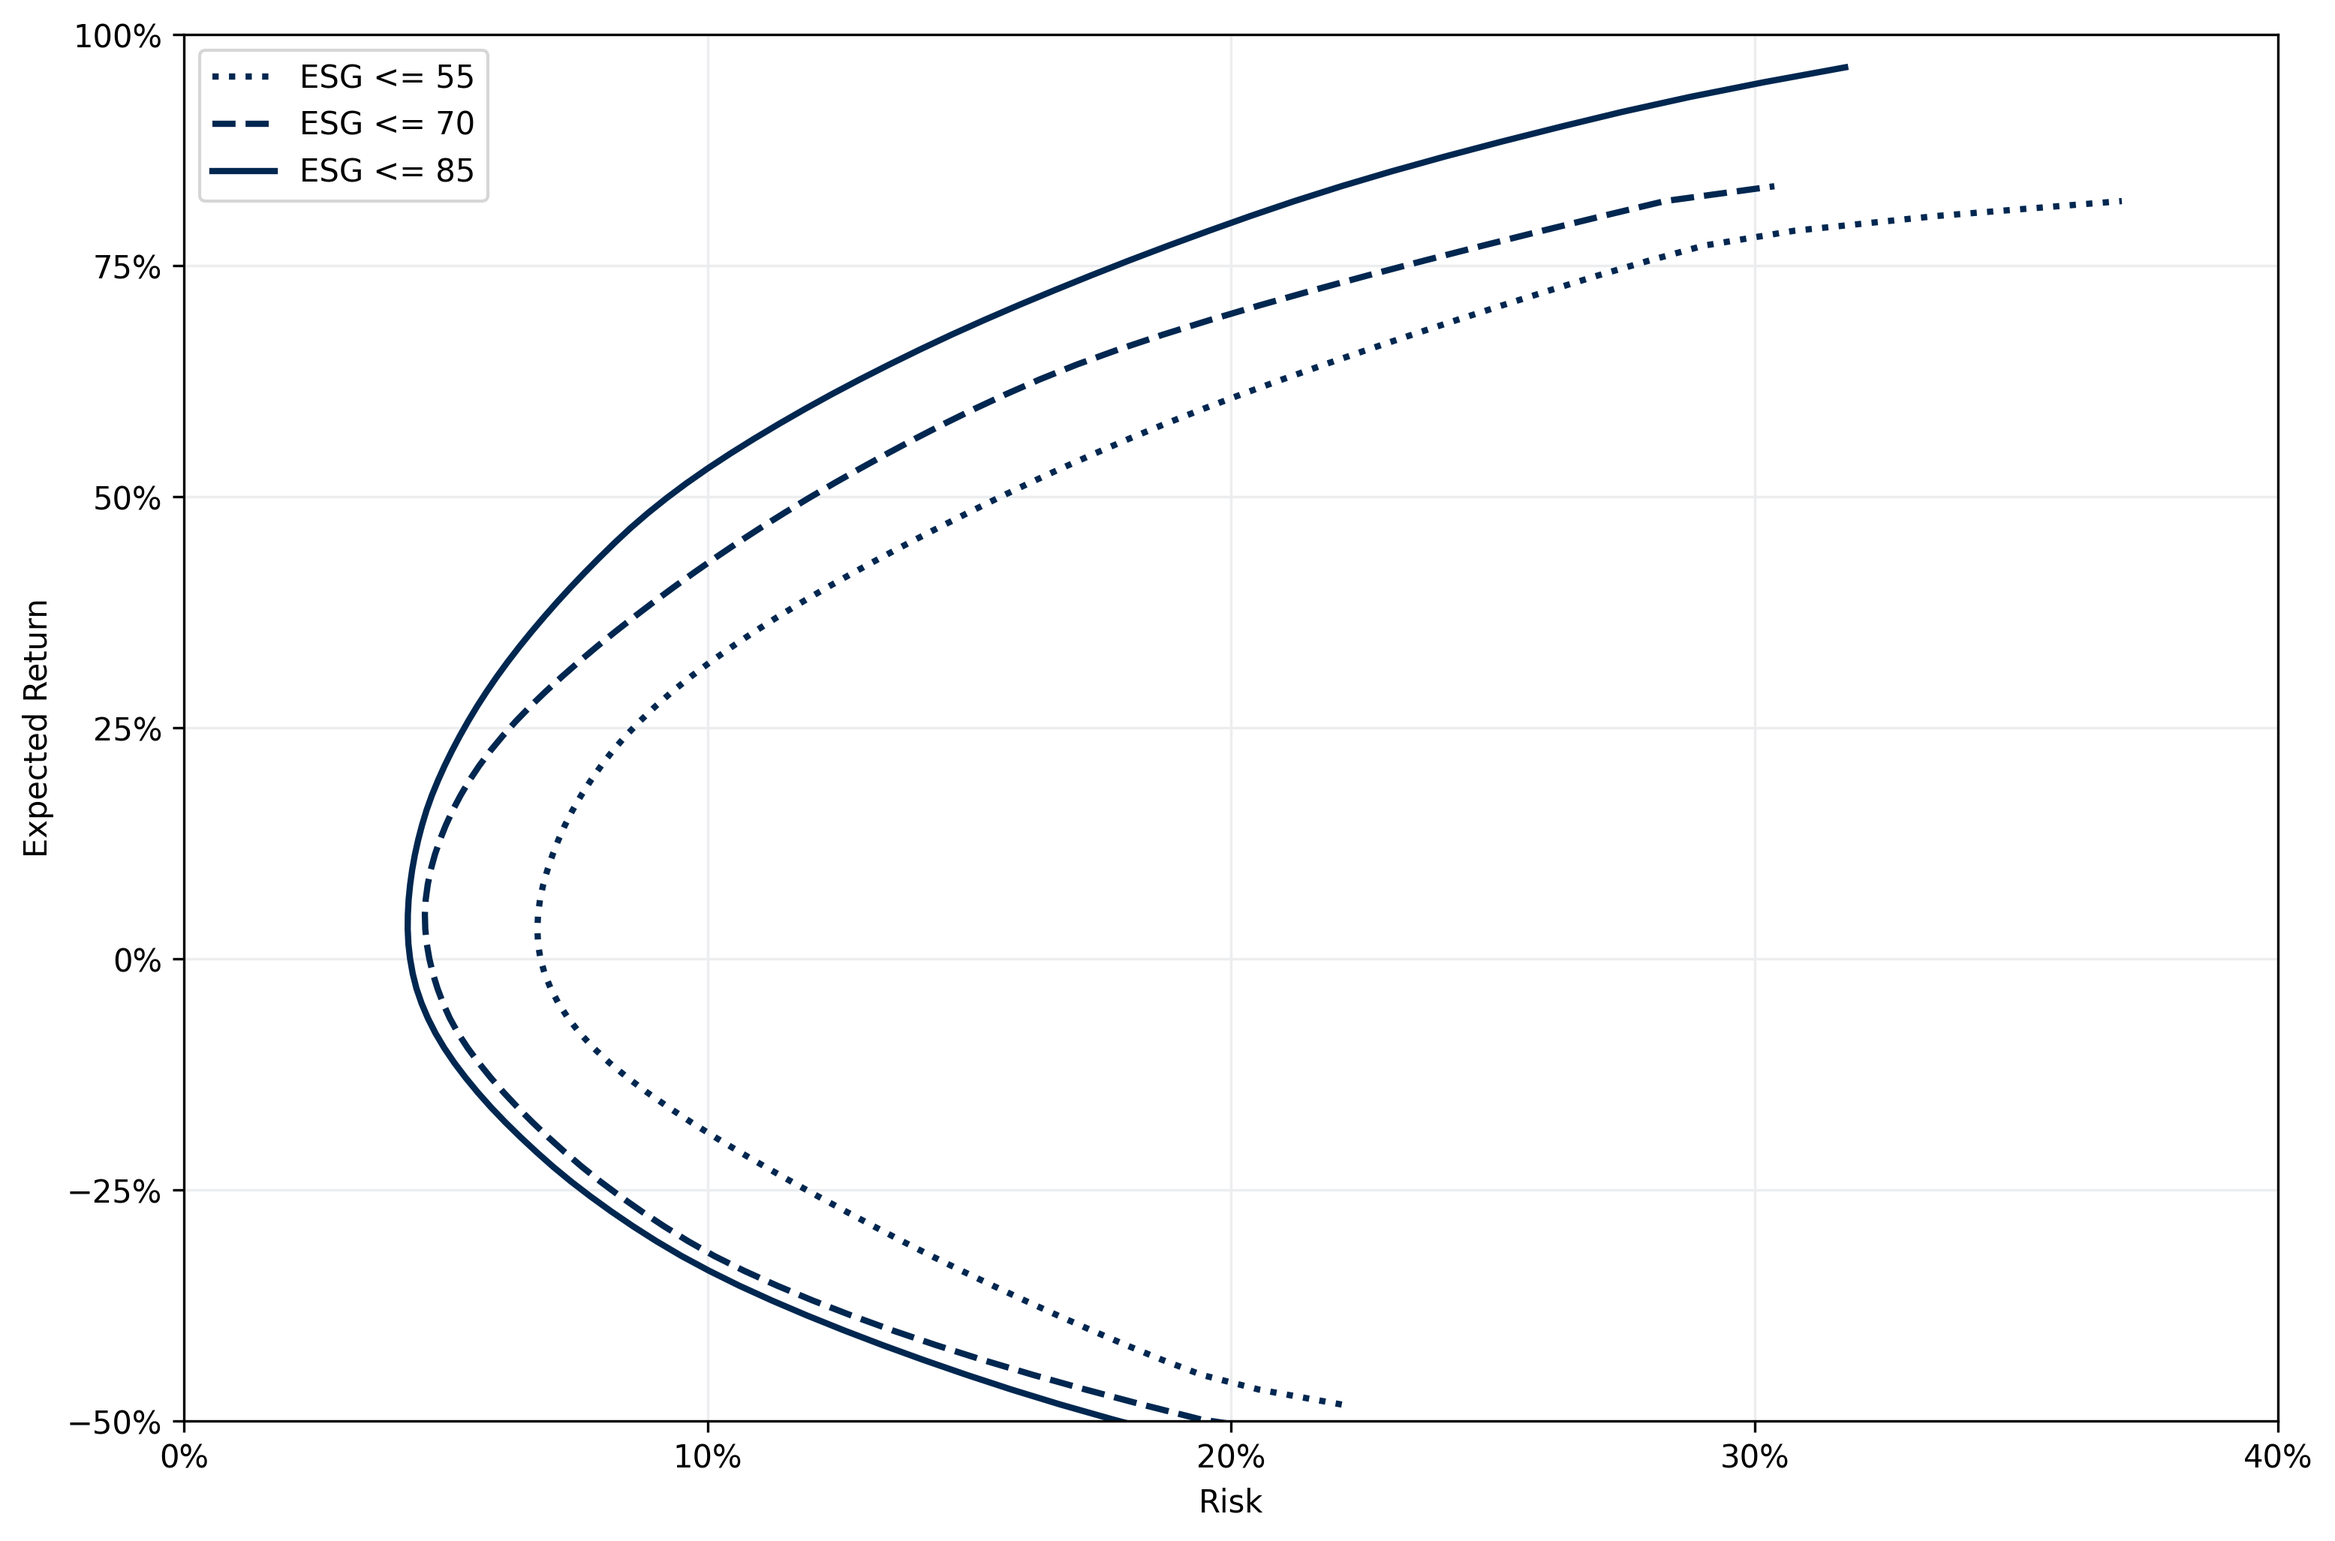
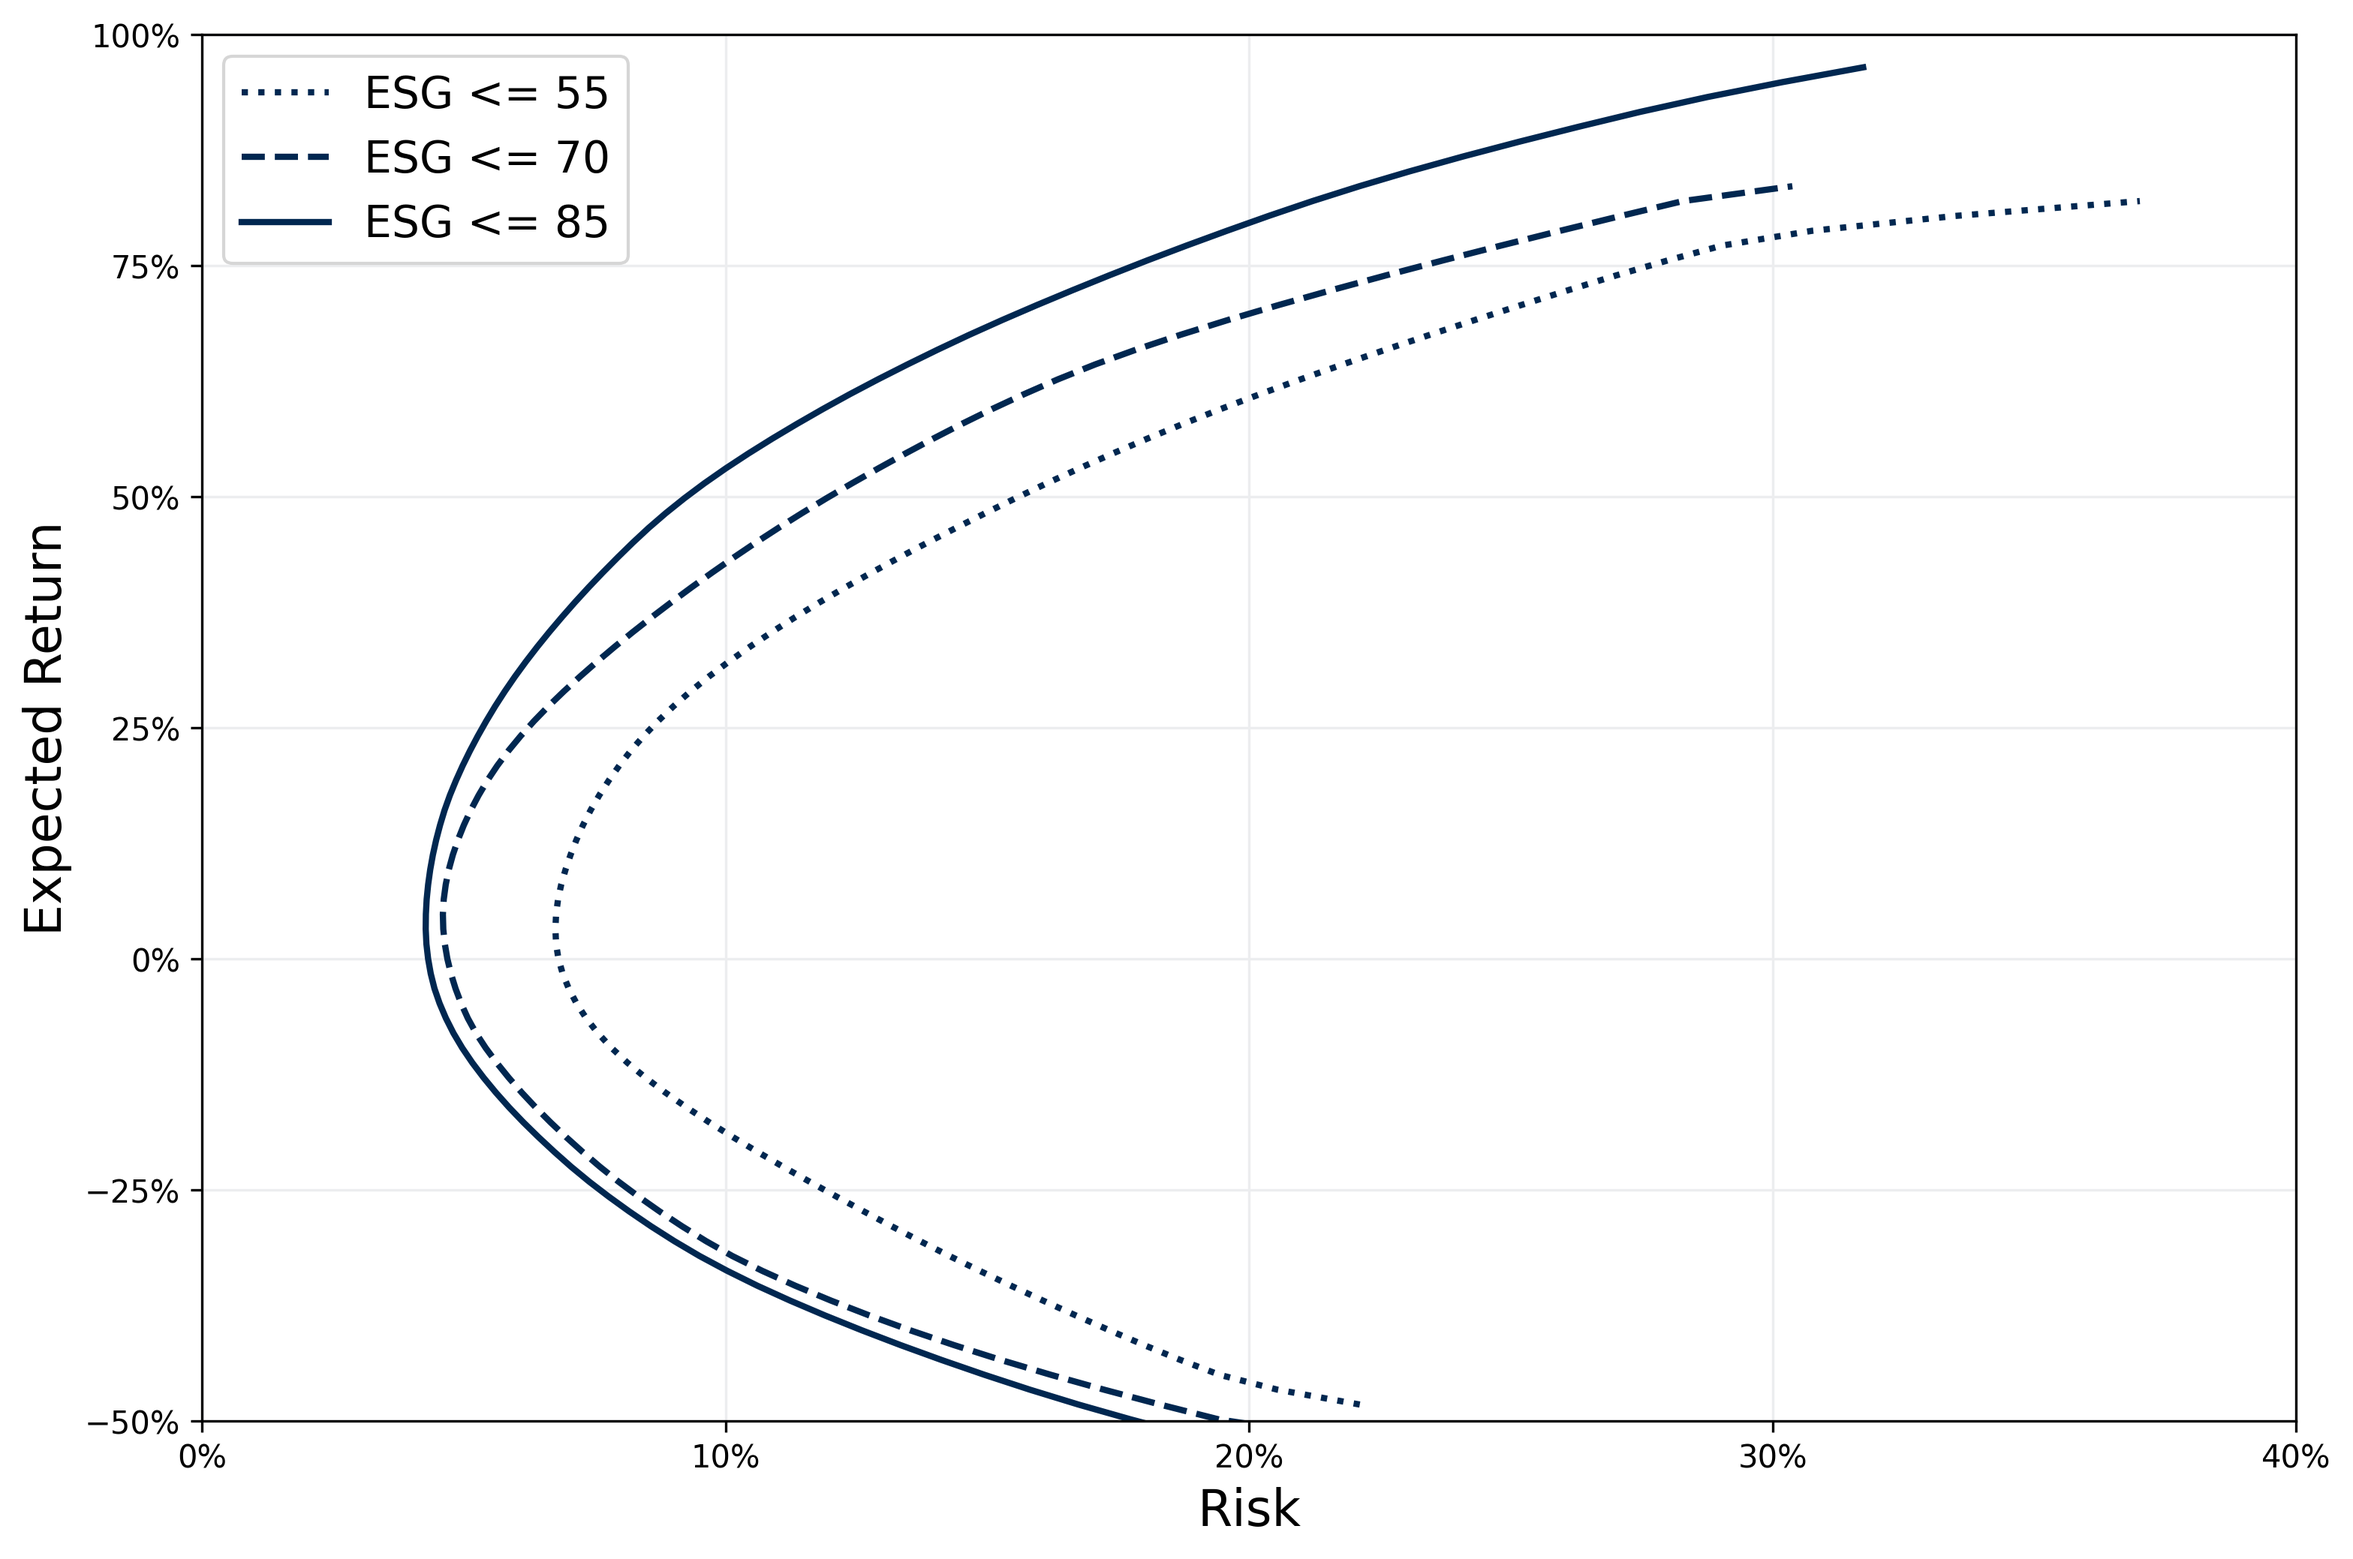
* Add Status Quo

diff --git a/Final/analysis.py b/Final/analysis.py
@@ -409,9 +409,9 @@ def plot_frontiers(frontiers, freq):
 
     plt.grid(True, color=grid_color)
 
-    plt.xlabel("Risk")
-    plt.ylabel("Expected Return")
-    plt.legend(loc="upper left")
+    plt.xlabel("Risk", fontsize=16)
+    plt.ylabel("Expected Return", fontsize=16)
+    plt.legend(loc="upper left", fontsize=14)
     plt.grid(True)
 
     if freq == "W":
@@ -481,10 +481,27 @@ def capital_market_line(config: RunConfig, frontiers: dict, freq: str):
     plt.xticks(np.arange(0, 0.41, 0.1))
     plt.yticks(np.arange(-0.5, 1.01, 0.25))
 
+    # ---- Risk-free Rate als zusätzlicher Y-Tick ----
+    current_yticks = plt.gca().get_yticks()
+
+    # Falls rf noch nicht als Tick existiert → hinzufügen
+    if not np.isclose(current_yticks, rf).any():
+        new_yticks = np.append(current_yticks, rf)
+    else:
+        new_yticks = current_yticks
+
+    plt.yticks(new_yticks)
+
+    # Ticklabels einfärben
+    for tick, label in zip(plt.gca().get_yticks(), plt.gca().get_yticklabels()):
+        if np.isclose(tick, rf):
+            label.set_color(cml_color)
+            label.set_fontweight("bold")
+
     plt.grid(True, color=grid_color)
-    plt.xlabel("Risk")
-    plt.ylabel("Expected Return")
-    plt.legend(loc="upper left")
+    plt.xlabel("Risk", fontsize=16)
+    plt.ylabel("Expected Return", fontsize=16)
+    plt.legend(loc="upper left", fontsize=14)
     plt.grid(True)
     if freq == "W":
         plt.savefig("Plots/07-CML2Y.png", dpi=300, bbox_inches='tight')
